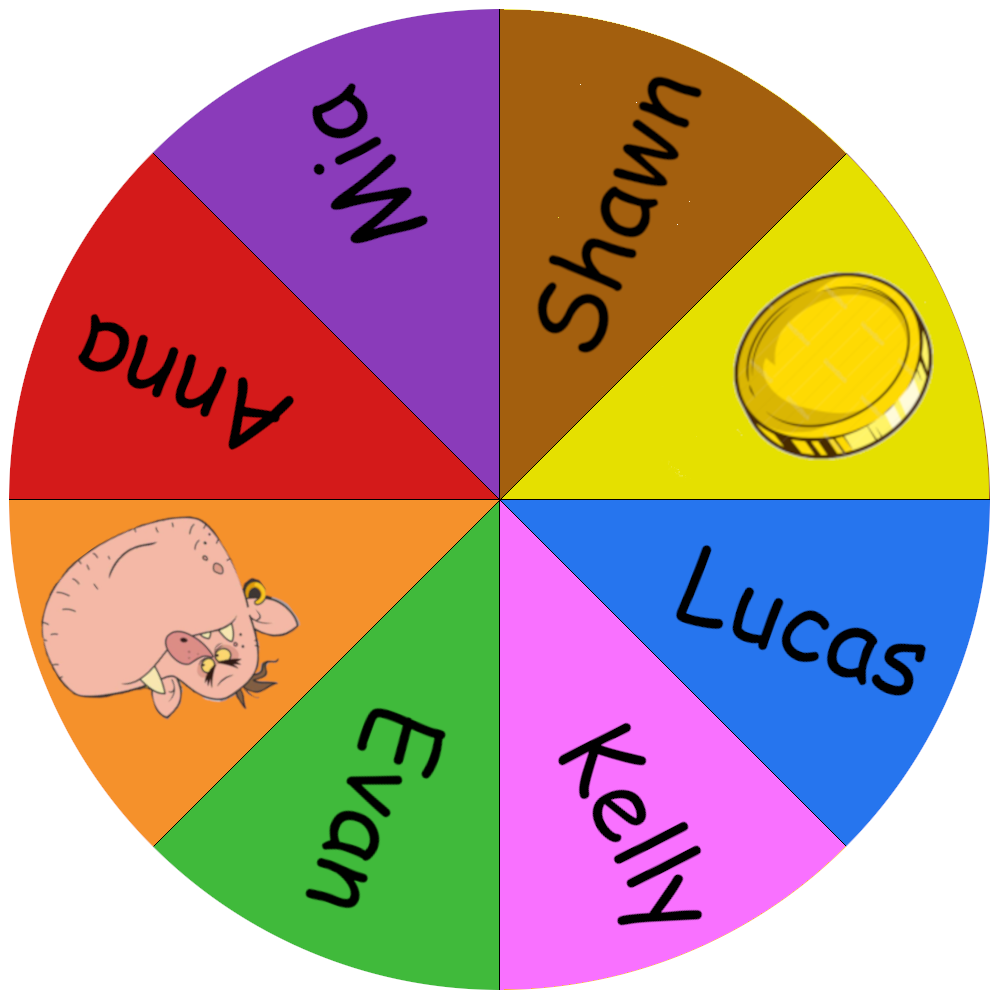
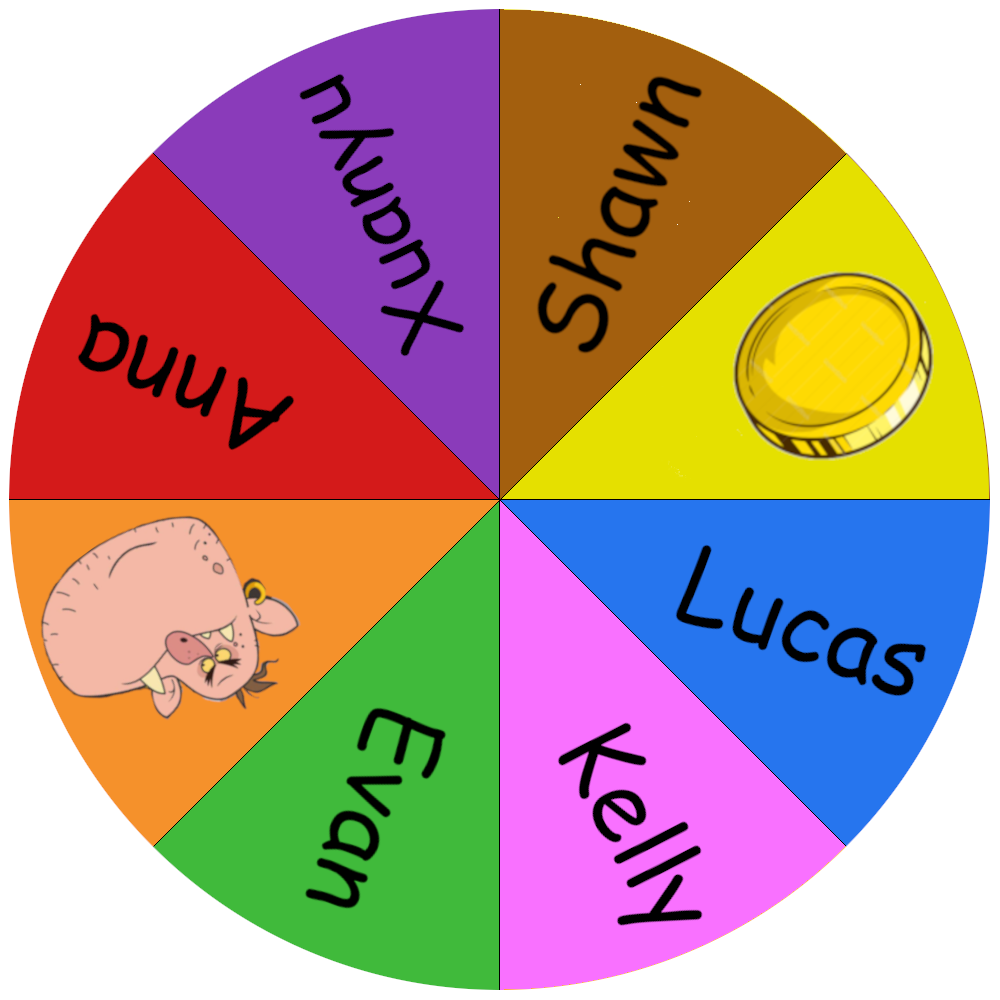
new student

Changed region(s): [[0.31, 0.062, 0.465, 0.372]]

diff --git a/src/data/sentence_list.js b/src/data/sentence_list.js
@@ -140,14 +140,34 @@ export class Sentence_List {
         this.sentences[q].pinyin = "Mǔ jī xiàdàn shí māmā gǔzhǎng";
 
         q+=1;this.sentences[q] = new Sentence();
-        this.sentences[q].english = "Mother will never cry again, he thought.";
-        this.sentences[q].chinese = "母鸡下蛋时妈妈鼓掌";
-        this.sentences[q].pinyin = "Mǔ jī xiàdàn shí māmā gǔzhǎng";
+        this.sentences[q].english = "Mother will never cry again, he thought";
+        this.sentences[q].chinese = "他想妈妈再也不会哭了";
+        this.sentences[q].pinyin = "Tā xiǎng māmā zài yě bù huì kūle";
 
+        q+=1;this.sentences[q] = new Sentence();
+        this.sentences[q].english = "Time passed. Mother and Jack were very happy";
+        this.sentences[q].chinese = "时间一天天过去。妈妈和杰克非常高兴";
+        this.sentences[q].pinyin = "Shíjiān yī tiāntiān guòqù. Māmā hé jiékè fēicháng gāoxìng";
 
+        q+=1;this.sentences[q] = new Sentence();
+        this.sentences[q].english = "They had each other";
+        this.sentences[q].chinese = "他们彼此拥有";
+        this.sentences[q].pinyin = "Tāmen bǐcǐ yǒngyǒu";
+
+        q+=1;this.sentences[q] = new Sentence();
+        this.sentences[q].english = "They had plenty of golden eggs";
+        this.sentences[q].chinese = "他们有很多金蛋";
+        this.sentences[q].pinyin = "Tāmen yǒu hěnduō jīn dàn";
         
-
-
+        q+=1;this.sentences[q] = new Sentence();
+        this.sentences[q].english = "after a while, Jack began to worry";
+        this.sentences[q].chinese = "过了一会儿，杰克开始担心";
+        this.sentences[q].pinyin = "Guòle yīhuǐ'er, jiékè kāishǐ dānxīn";
+        
+        q+=1;this.sentences[q] = new Sentence();
+        this.sentences[q].english = "after a while, Jack began to worry";
+        this.sentences[q].chinese = "过了一会儿，杰克开始担心";
+        this.sentences[q].pinyin = "Guòle yīhuǐ'er, jiékè kāishǐ dānxīn";
 
 }
 
